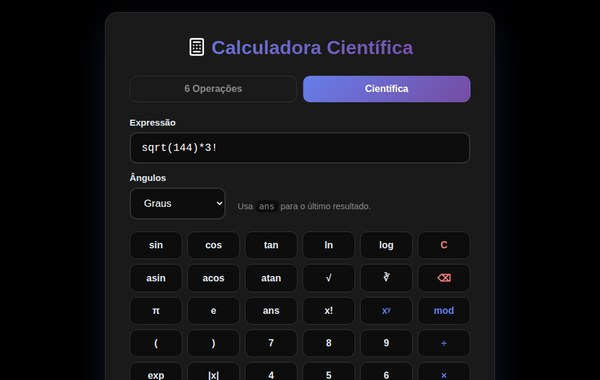
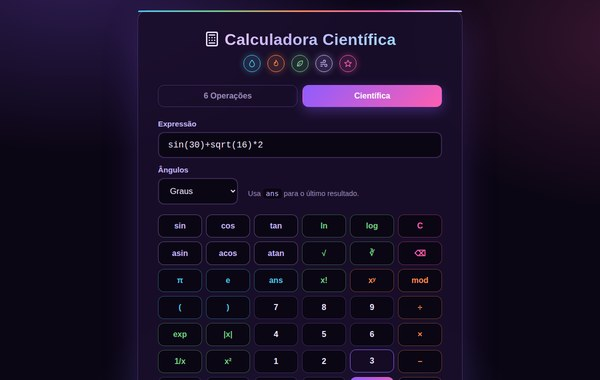
Calculadora 013: tema cinco elementos e nova miniatura

diff --git a/projetos/EXERCICIO013 - Calculadora com 4 Operações/style.css b/projetos/EXERCICIO013 - Calculadora com 4 Operações/style.css
@@ -438,3 +438,272 @@ button:active {
 .card h1 {
     margin-bottom: 28px;
 }
+
+
+/* ============================================
+   TEMA "CINCO ELEMENTOS" (desenho original)
+   Noite violeta com cinco cores: água, fogo, terra, ar e energia
+   ============================================ */
+:root {
+    --noite: #0b0614;
+    --noite-2: #150b24;
+    --vidro: rgba(26, 15, 44, 0.88);
+    --linha: rgba(176, 132, 255, 0.28);
+    --texto: #efe6ff;
+    --suave: #9c8bb8;
+    --agua: #4cc9f0;
+    --fogo: #ff8a4c;
+    --terra: #6fd27f;
+    --ar: #c7b6ff;
+    --energia: #ff5fb0;
+    --violeta: #8f5cff;
+}
+
+body {
+    background:
+        radial-gradient(60rem 40rem at 12% -10%, rgba(143, 92, 255, 0.28), transparent 60%),
+        radial-gradient(50rem 36rem at 105% 10%, rgba(255, 95, 176, 0.18), transparent 60%),
+        radial-gradient(46rem 34rem at 50% 115%, rgba(76, 201, 240, 0.16), transparent 60%),
+        var(--noite);
+    background-attachment: fixed;
+    color: var(--texto);
+}
+
+.card {
+    background: var(--vidro);
+    border: 1px solid var(--linha);
+    box-shadow: 0 24px 70px rgba(143, 92, 255, 0.22), inset 0 1px 0 rgba(255, 255, 255, 0.06);
+    position: relative;
+}
+
+.card::before {
+    content: '';
+    position: absolute;
+    inset: 0 0 auto 0;
+    height: 3px;
+    border-radius: 20px 20px 0 0;
+    background: linear-gradient(90deg, var(--agua), var(--terra), var(--fogo), var(--energia), var(--ar));
+}
+
+h1 {
+    background: linear-gradient(135deg, #ffd1ef, #c7b6ff 45%, #8fe3ff);
+    -webkit-background-clip: text;
+    background-clip: text;
+    -webkit-text-fill-color: transparent;
+    letter-spacing: 0.3px;
+}
+
+/* faixa dos cinco elementos */
+.card h1 {
+    margin-bottom: 12px;
+}
+
+.elementos {
+    display: flex;
+    justify-content: center;
+    gap: 14px;
+    margin-bottom: 26px;
+}
+
+.elemento {
+    width: 34px;
+    height: 34px;
+    display: grid;
+    place-items: center;
+    border-radius: 50%;
+    border: 1px solid currentColor;
+    background: color-mix(in srgb, currentColor 14%, transparent);
+    box-shadow: 0 0 14px color-mix(in srgb, currentColor 35%, transparent);
+}
+
+.elemento svg {
+    width: 18px;
+    height: 18px;
+}
+
+.el-agua { color: var(--agua); }
+.el-fogo { color: var(--fogo); }
+.el-terra { color: var(--terra); }
+.el-ar { color: var(--ar); }
+.el-energia { color: var(--energia); }
+
+/* abas */
+.aba {
+    border-color: var(--linha);
+    color: var(--suave);
+}
+
+.aba:hover {
+    color: var(--texto);
+    border-color: var(--violeta);
+}
+
+.aba.ativa {
+    background: linear-gradient(135deg, var(--violeta), var(--energia));
+    color: #fff;
+    box-shadow: 0 8px 24px rgba(143, 92, 255, 0.35);
+}
+
+/* campos */
+.input-field label {
+    color: var(--ar);
+}
+
+.input-field input,
+.input-field select {
+    background: var(--noite);
+    border-color: var(--linha);
+    color: var(--texto);
+}
+
+.input-field input:focus,
+.input-field select:focus {
+    border-color: var(--violeta);
+    box-shadow: 0 0 0 3px rgba(143, 92, 255, 0.25);
+    background: var(--noite-2);
+}
+
+.input-field input::placeholder {
+    color: #5d4d78;
+}
+
+.dica,
+.resultado-conteudo .conta {
+    color: var(--suave);
+}
+
+.dica code,
+.erro code {
+    background: var(--noite);
+    color: var(--ar);
+}
+
+/* botão Calcular */
+button[type="submit"]:not(.tecla) {
+    background: linear-gradient(135deg, var(--violeta), var(--energia));
+}
+
+button:hover {
+    box-shadow: 0 10px 30px rgba(143, 92, 255, 0.4);
+}
+
+/* teclado: cada grupo com a cor de um elemento */
+.teclado .tecla {
+    background: var(--noite);
+    border: 1px solid var(--linha);
+    color: var(--texto);
+}
+
+.teclado .tecla:hover {
+    border-color: var(--violeta);
+    background: var(--noite-2);
+}
+
+.teclado .tecla.el-ar,
+.teclado .tecla.el-terra,
+.teclado .tecla.el-agua {
+    border-color: color-mix(in srgb, currentColor 40%, transparent);
+}
+
+.teclado .tecla.el-ar { color: var(--ar); }
+.teclado .tecla.el-terra { color: var(--terra); }
+.teclado .tecla.el-agua { color: var(--agua); }
+
+.teclado .tecla.el-ar:hover,
+.teclado .tecla.el-terra:hover,
+.teclado .tecla.el-agua:hover {
+    background: color-mix(in srgb, currentColor 14%, var(--noite));
+    border-color: currentColor;
+    box-shadow: 0 0 14px color-mix(in srgb, currentColor 30%, transparent);
+}
+
+.teclado .tecla.op {
+    color: var(--fogo);
+    border-color: color-mix(in srgb, var(--fogo) 40%, transparent);
+}
+
+.teclado .tecla.op:hover {
+    background: color-mix(in srgb, var(--fogo) 14%, var(--noite));
+    border-color: var(--fogo);
+    box-shadow: 0 0 14px rgba(255, 138, 76, 0.3);
+}
+
+.teclado .tecla.limpar {
+    color: var(--energia);
+    border-color: color-mix(in srgb, var(--energia) 40%, transparent);
+}
+
+.teclado .tecla.igual {
+    background: linear-gradient(135deg, var(--violeta), var(--energia));
+    border-color: transparent;
+    color: #fff;
+}
+
+/* resultados: um elemento para cada operação */
+.resultado-item {
+    background: var(--noite);
+    border: 1px solid var(--linha);
+    border-left: 4px solid var(--violeta);
+}
+
+.resultado-item:hover {
+    background: var(--noite-2);
+}
+
+.resultado-conteudo h3,
+.historico h3 {
+    color: var(--suave);
+}
+
+.resultado-conteudo p {
+    color: var(--texto);
+}
+
+.resultado-icon {
+    width: 38px;
+    height: 38px;
+    display: grid;
+    place-items: center;
+    border-radius: 50%;
+    font-weight: 700;
+    border: 1px solid currentColor;
+    background: color-mix(in srgb, currentColor 12%, transparent);
+}
+
+.resultados-area .resultado-item.soma { border-left-color: var(--terra); }
+.resultados-area .resultado-item.soma .resultado-icon,
+.resultados-area .resultado-item.soma .resultado-conteudo .valor { color: var(--terra); }
+
+.resultados-area .resultado-item.subtracao { border-left-color: var(--agua); }
+.resultados-area .resultado-item.subtracao .resultado-icon,
+.resultados-area .resultado-item.subtracao .resultado-conteudo .valor { color: var(--agua); }
+
+.resultados-area .resultado-item.multiplicacao { border-left-color: var(--fogo); }
+.resultados-area .resultado-item.multiplicacao .resultado-icon,
+.resultados-area .resultado-item.multiplicacao .resultado-conteudo .valor { color: var(--fogo); }
+
+.resultados-area .resultado-item.divisao { border-left-color: var(--ar); }
+.resultados-area .resultado-item.divisao .resultado-icon,
+.resultados-area .resultado-item.divisao .resultado-conteudo .valor { color: var(--ar); }
+
+.resultados-area .resultado-item.potencia { border-left-color: var(--energia); }
+.resultados-area .resultado-item.potencia .resultado-icon,
+.resultados-area .resultado-item.potencia .resultado-conteudo .valor { color: var(--energia); }
+
+.resultados-area .resultado-item.modulo { border-left-color: var(--violeta); }
+.resultados-area .resultado-item.modulo .resultado-icon,
+.resultados-area .resultado-item.modulo .resultado-conteudo .valor { color: #b794ff; }
+
+/* resultado científico */
+.resultados-area.uma-coluna .resultado-item { border-left-color: var(--energia); }
+.resultados-area.uma-coluna .resultado-icon,
+.resultados-area.uma-coluna .resultado-conteudo .valor { color: var(--energia); }
+
+.historico { border-top-color: var(--linha); }
+.historico ol { color: var(--suave); }
+
+.erro {
+    color: #ff9db8;
+    background: rgba(255, 95, 176, 0.1);
+    border-left-color: var(--energia);
+}

diff --git a/projetos/EXERCICIO013 - Calculadora com 4 Operações/index.php b/projetos/EXERCICIO013 - Calculadora com 4 Operações/index.php
@@ -119,6 +119,20 @@ if ($_SERVER['REQUEST_METHOD'] === 'POST') {
 }
 
 $historico = $_SESSION['historico'] ?? [];
+$ico = static fn (string $d): string => '<svg viewBox="0 0 24 24" fill="none" stroke="currentColor" stroke-width="1.8" stroke-linecap="round" stroke-linejoin="round" aria-hidden="true">' . $d . '</svg>';
+$elementos = [
+    'agua'    => ['Água',    $ico('<path d="M12 3C12 3 5.5 10.2 5.5 14.5a6.5 6.5 0 0 0 13 0C18.5 10.2 12 3 12 3z"/>')],
+    'fogo'    => ['Fogo',    $ico('<path d="M12 3c1 3.5 5 5.5 5 10a5 5 0 0 1-10 0c0-2 1-3.2 2-4.2.2 1.4 1 2.2 1.8 2.2C10.5 8 11 5.5 12 3z"/>')],
+    'terra'   => ['Terra',   $ico('<path d="M5 19C5 10 10 5 19 5c0 9-5 14-14 14z"/><path d="M5 19l8-8"/>')],
+    'ar'      => ['Ar',      $ico('<path d="M3 9h10a3 3 0 1 0-3-3"/><path d="M3 14h14a3 3 0 1 1-3 3"/><path d="M3 19h5"/>')],
+    'energia' => ['Energia', $ico('<polygon points="12 3 14.6 9 21 9.6 16.2 13.8 17.7 20.2 12 16.8 6.3 20.2 7.8 13.8 3 9.6 9.4 9"/>')],
+];
+// cor (elemento) de cada tecla científica, pelo texto mostrado
+$corTecla = [
+    'sin' => 'ar', 'cos' => 'ar', 'tan' => 'ar', 'asin' => 'ar', 'acos' => 'ar', 'atan' => 'ar',
+    'ln' => 'terra', 'log' => 'terra', 'exp' => 'terra', '√' => 'terra', '∛' => 'terra', '|x|' => 'terra', '1/x' => 'terra', 'x²' => 'terra', 'x!' => 'terra',
+    'π' => 'agua', 'e' => 'agua', 'ans' => 'agua', '(' => 'agua', ')' => 'agua',
+];
 $iconeCalculadora = '<svg class="icon" style="width:1em;height:1em;vertical-align:-0.125em" viewBox="0 0 24 24" fill="none" stroke="currentColor" stroke-width="2" stroke-linecap="round" stroke-linejoin="round"><rect x="4" y="2" width="16" height="20" rx="2"/><line x1="8" y1="6" x2="16" y2="6"/><line x1="8" y1="10" x2="8.01" y2="10"/><line x1="12" y1="10" x2="12.01" y2="10"/><line x1="16" y1="10" x2="16.01" y2="10"/><line x1="8" y1="14" x2="8.01" y2="14"/><line x1="12" y1="14" x2="12.01" y2="14"/><line x1="16" y1="14" x2="16.01" y2="14"/><line x1="8" y1="18" x2="16" y2="18"/></svg>';
 ?>
 <!DOCTYPE html>
@@ -127,12 +141,17 @@ $iconeCalculadora = '<svg class="icon" style="width:1em;height:1em;vertical-alig
     <meta charset="UTF-8">
     <meta name="viewport" content="width=device-width, initial-scale=1.0">
     <title>Calculadora Científica · Exercício 013</title>
-    <link rel="stylesheet" href="style.css?v=2">
+    <link rel="stylesheet" href="style.css?v=3">
 </head>
 <body>
     <div class="container">
         <div class="card">
             <h1><?= $iconeCalculadora ?> Calculadora Científica</h1>
+            <div class="elementos" aria-hidden="true">
+                <?php foreach ($elementos as $chave => [$nome, $svg]): ?>
+                    <span class="elemento el-<?= e($chave) ?>" title="<?= e($nome) ?>"><?= $svg ?></span>
+                <?php endforeach; ?>
+            </div>
 
             <nav class="abas" aria-label="Modo da calculadora">
                 <a class="aba<?= $modo === 'basica' ? ' ativa' : '' ?>" href="?modo=basica"<?= $modo === 'basica' ? ' aria-current="page"' : '' ?>>6 Operações</a>
@@ -225,7 +244,7 @@ $iconeCalculadora = '<svg class="icon" style="width:1em;height:1em;vertical-alig
                         <?php elseif ($texto === '='): ?>
                             <button type="submit" class="tecla igual">=</button>
                         <?php else: ?>
-                            <button type="button" class="tecla <?= e($classe) ?>" data-insere="<?= e($insere) ?>"><?= e($texto) ?></button>
+                            <button type="button" class="tecla <?= e(trim($classe . ' ' . (isset($corTecla[$texto]) ? 'el-' . $corTecla[$texto] : ''))) ?>" data-insere="<?= e($insere) ?>"><?= e($texto) ?></button>
                         <?php endif; ?>
                     <?php endforeach; ?>
                 </div>
